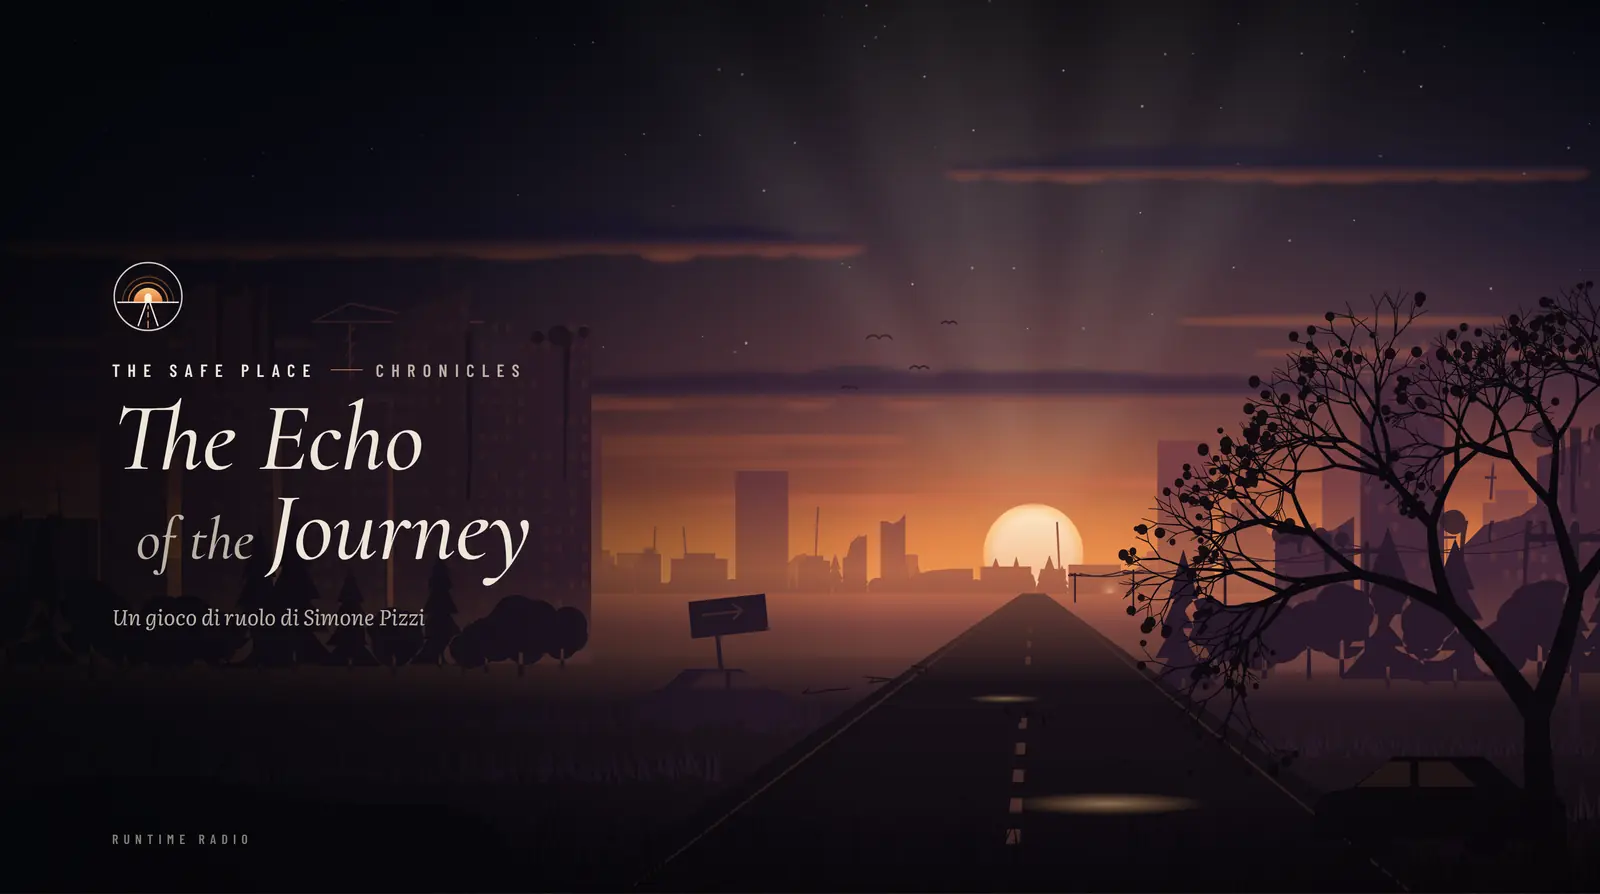
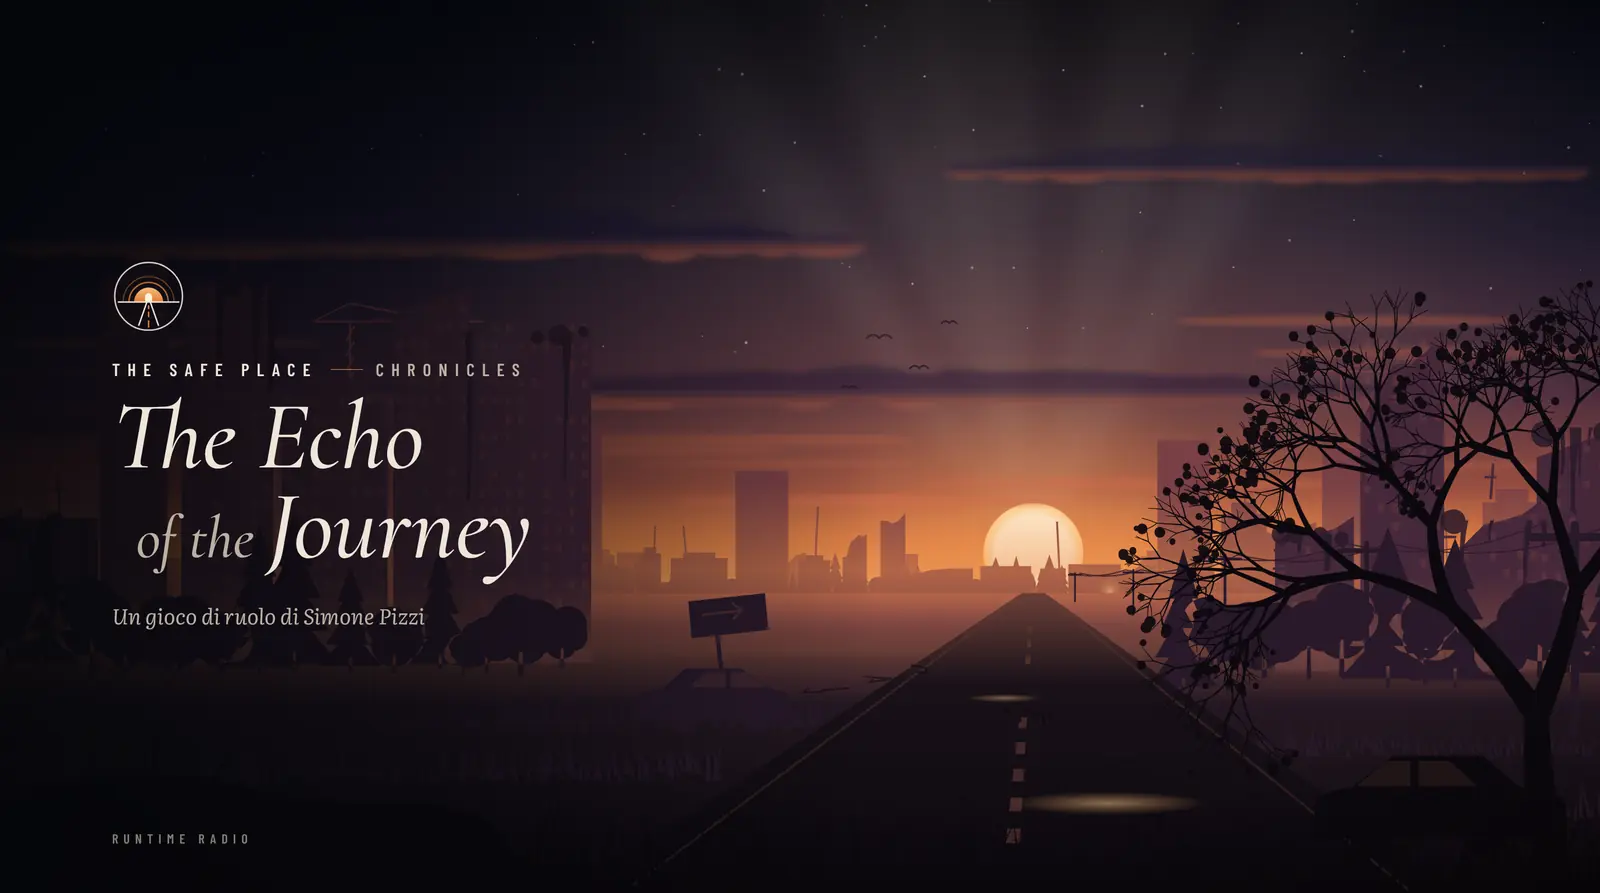
fix(sito): immagini dalle copertine corrette e ink4 come nel gioco
- Copertina orizzontale e poster della galleria rigenerati con
  scripts/export-images.mjs dalle copertine rifatte alle misure esatte;
  le altre immagini, l'immagine Open Graph e le favicon escono identiche.
- --c-ink4 allineato al gioco (120 113 103, più contrastato).

Claude-Session: https://claude.ai/code/session_01YCBEjKbYPjveupAU1xPuPF

diff --git a/SITO/src/index.css b/SITO/src/index.css
@@ -106,7 +106,7 @@
   --c-ink: 237 230 217;
   --c-ink2: 186 177 163;
   --c-ink3: 133 125 114;
-  --c-ink4: 92 87 80;
+  --c-ink4: 120 113 103;
   /* Luce: la brace del tramonto, l'oro degli avvisi, il viola della memoria. */
   --c-ember: 232 137 63;
   --c-ember2: 245 180 108;
